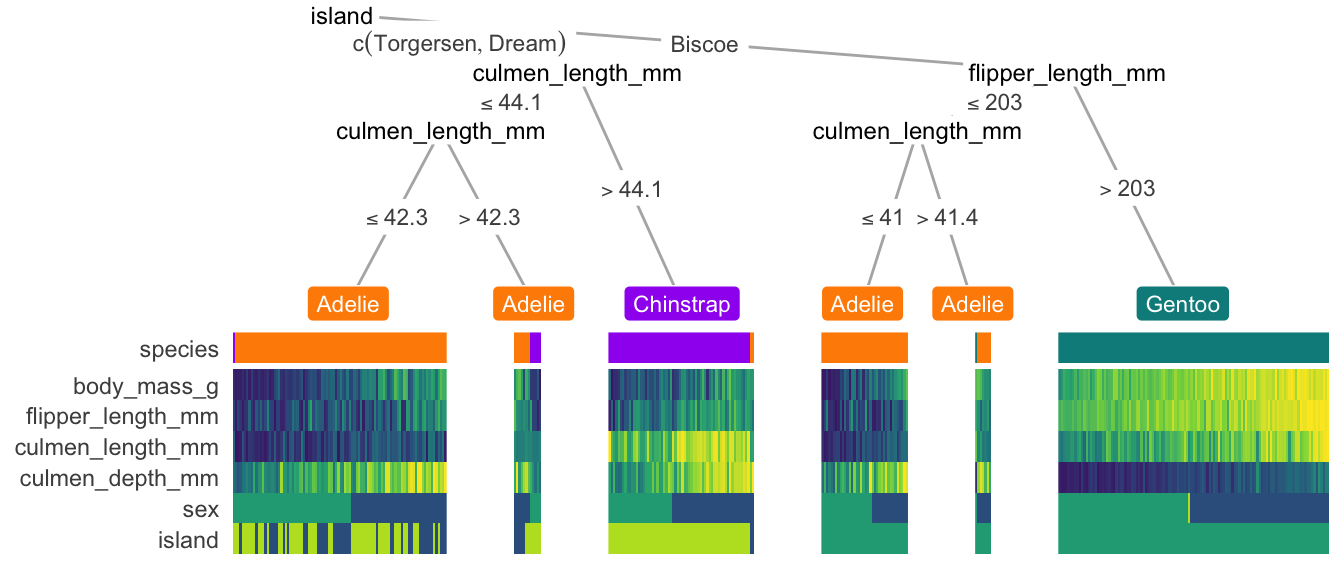
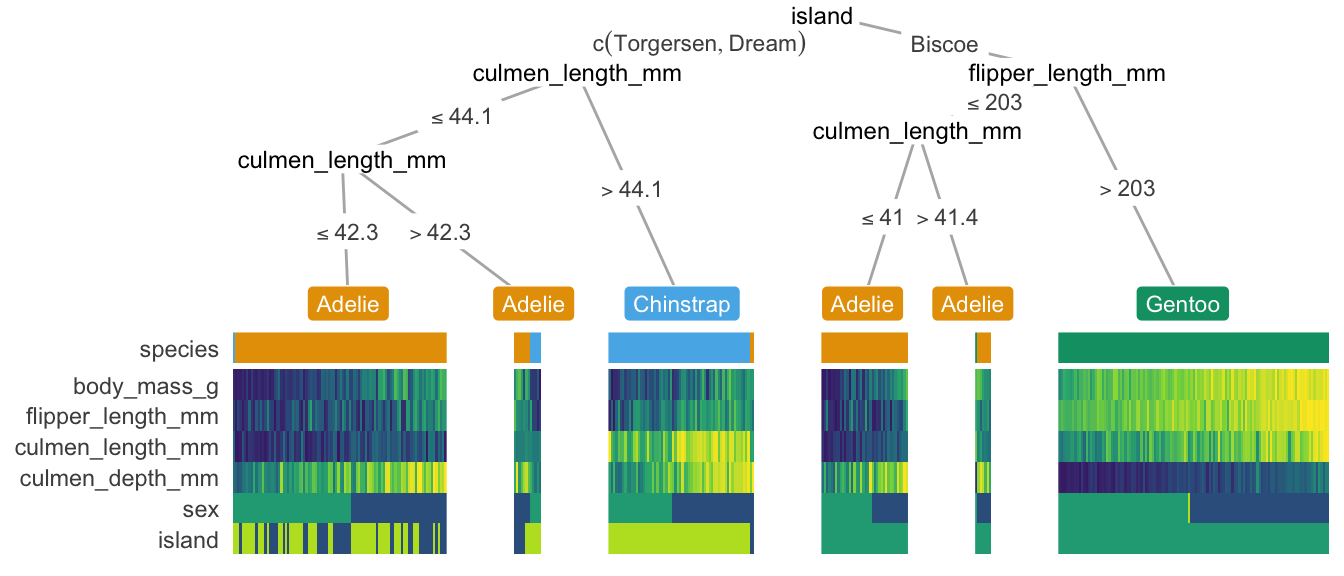
deploy: 11a17aaa21ae8ff6074057c14ddf8e1370b1aad9

diff --git a/articles/explore.html b/articles/explore.html
@@ -88,7 +88,7 @@
 </h1>
                         <h4 class="author">Trang Le</h4>
             
-            <h4 class="date">2020-06-18</h4>
+            <h4 class="date">2020-06-19</h4>
       
       <small class="dont-index">Source: <a href="https://github.com/trang1618/treeheatr/blob/master/vignettes/explore.Rmd"><code>vignettes/explore.Rmd</code></a></small>
       <div class="hidden name"><code>explore.Rmd</code></div>
@@ -112,9 +112,9 @@
 <p>But we can adjust a few graphical parameters. We can also add a custom layout for a subset of the nodes by specifying it in the <code>custom_layout</code> parameter. And we can relax the p value threshold <code>p_thres</code> to include more features that might be less important in classifying the samples but still included in the decision tree, or set <code>show_all_feats = TRUE</code> to include all features, even the ones that were not used to build the tree.</p>
 <div class="sourceCode" id="cb3"><html><body><pre class="r"><span class="fu"><a href="https://rdrr.io/pkg/treeheatr/man/heat_tree.html">heat_tree</a></span>(
   <span class="no">dat_raw</span>, <span class="kw">target_lab</span> <span class="kw">=</span> <span class="st">'species'</span>,
-  <span class="co"># target_cols = c('#E69F00', '#56B4E9', '#009E73'),</span>
-  <span class="kw">target_cols</span> <span class="kw">=</span> <span class="fu"><a href="https://rdrr.io/r/base/c.html">c</a></span>(<span class="st">'darkorange'</span>,<span class="st">'purple'</span>,<span class="st">'cyan4'</span>),
-  <span class="kw">custom_layout</span> <span class="kw">=</span> <span class="fu"><a href="https://rdrr.io/r/base/data.frame.html">data.frame</a></span>(<span class="kw">id</span> <span class="kw">=</span> <span class="fl">1</span>, <span class="kw">x</span> <span class="kw">=</span> <span class="fl">0.1</span>, <span class="kw">y</span> <span class="kw">=</span> <span class="fl">1</span>),
+  <span class="kw">target_cols</span> <span class="kw">=</span> <span class="fu"><a href="https://rdrr.io/r/base/c.html">c</a></span>(<span class="st">'#E69F00'</span>, <span class="st">'#56B4E9'</span>, <span class="st">'#009E73'</span>),
+  <span class="co"># moving node 3 a bit to the left:</span>
+  <span class="kw">custom_layout</span> <span class="kw">=</span> <span class="fu"><a href="https://rdrr.io/r/base/data.frame.html">data.frame</a></span>(<span class="kw">id</span> <span class="kw">=</span> <span class="fl">3</span>, <span class="kw">x</span> <span class="kw">=</span> <span class="fl">0.1</span>, <span class="kw">y</span> <span class="kw">=</span> <span class="fl">0.5</span>),
   <span class="kw">show_all_feats</span> <span class="kw">=</span> <span class="fl">TRUE</span>,
   <span class="kw">panel_space</span> <span class="kw">=</span> <span class="fl">0.05</span>, <span class="kw">target_space</span> <span class="kw">=</span> <span class="fl">0.2</span>, <span class="kw">tree_space_bottom</span> <span class="kw">=</span> <span class="fl">0.1</span>, <span class="kw">heat_rel_height</span> <span class="kw">=</span> <span class="fl">0.4</span>)</pre></body></html></div>
 <p><img src="explore_files/figure-html/unnamed-chunk-3-1.png" width="672"></p>

diff --git a/reference/eval_tree.html b/reference/eval_tree.html
@@ -134,15 +134,24 @@
     <p>Print decision tree performance according to different metrics.</p>
     </div>
 
-    <pre class="usage"><span class='fu'>eval_tree</span>(<span class='no'>dat</span>, <span class='kw'>task</span> <span class='kw'>=</span> <span class='fu'><a href='https://rdrr.io/r/base/c.html'>c</a></span>(<span class='st'>"classification"</span>, <span class='st'>"regression"</span>), <span class='kw'>metrics</span> <span class='kw'>=</span> <span class='kw'>NULL</span>)</pre>
+    <pre class="usage"><span class='fu'>eval_tree</span>(
+  <span class='no'>dat</span>,
+  <span class='kw'>target_lab</span> <span class='kw'>=</span> <span class='fu'><a href='https://rdrr.io/r/base/colnames.html'>colnames</a></span>(<span class='no'>dat</span>)[<span class='fl'>1</span>],
+  <span class='kw'>task</span> <span class='kw'>=</span> <span class='fu'><a href='https://rdrr.io/r/base/c.html'>c</a></span>(<span class='st'>"classification"</span>, <span class='st'>"regression"</span>),
+  <span class='kw'>metrics</span> <span class='kw'>=</span> <span class='kw'>NULL</span>
+)</pre>
 
     <h2 class="hasAnchor" id="arguments"><a class="anchor" href="#arguments"></a>Arguments</h2>
     <table class="ref-arguments">
     <colgroup><col class="name" /><col class="desc" /></colgroup>
     <tr>
       <th>dat</th>
-      <td><p>Dataframe with truths (column `my_target`) and estimates (column `y_hat`)
+      <td><p>Dataframe with truths (column `target_lab`) and estimates (column `y_hat`)
 of samples from original dataset.</p></td>
+    </tr>
+    <tr>
+      <th>target_lab</th>
+      <td><p>Name of the column in data that contains target/label information.</p></td>
     </tr>
     <tr>
       <th>task</th>

diff --git a/reference/prediction_df.html b/reference/prediction_df.html
@@ -136,14 +136,14 @@ or all features if `show_all_feats == TRUE`." />
 or all features if `show_all_feats == TRUE`.</p>
     </div>
 
-    <pre class="usage"><span class='fu'>prediction_df</span>(<span class='no'>dat</span>, <span class='no'>fit</span>, <span class='no'>data_test</span>, <span class='no'>task</span>, <span class='no'>clust_samps</span>, <span class='no'>clust_target</span>)</pre>
+    <pre class="usage"><span class='fu'>prediction_df</span>(<span class='no'>dat</span>, <span class='no'>fit</span>, <span class='no'>data_test</span>, <span class='no'>target_lab</span>, <span class='no'>task</span>, <span class='no'>clust_samps</span>, <span class='no'>clust_target</span>)</pre>
 
     <h2 class="hasAnchor" id="arguments"><a class="anchor" href="#arguments"></a>Arguments</h2>
     <table class="ref-arguments">
     <colgroup><col class="name" /><col class="desc" /></colgroup>
     <tr>
       <th>dat</th>
-      <td><p>Tidy dataset with dependent variable labeled 'my_target'.</p></td>
+      <td><p>Tidy dataset.</p></td>
     </tr>
     <tr>
       <th>fit</th>
@@ -152,6 +152,10 @@ or all features if `show_all_feats == TRUE`.</p>
     <tr>
       <th>data_test</th>
       <td><p>Tidy test dataset. If NULL, heatmap displays (training) `data`.</p></td>
+    </tr>
+    <tr>
+      <th>target_lab</th>
+      <td><p>Name of the column in data that contains target/label information.</p></td>
     </tr>
     <tr>
       <th>task</th>

diff --git a/reference/index.html b/reference/index.html
@@ -269,6 +269,29 @@
           <p><code><a href="wine_quality_red.html">wine_quality_red</a></code> </p>
         </td>
         <td><p>Red variant of the Portuguese "Vinho Verde" wine.</p></td>
+      </tr><tr>
+        
+        <td>
+          <p><code><a href="galaxy.html">galaxy</a></code> </p>
+        </td>
+        <td><p>Galaxy dataset for regression.</p></td>
+      </tr><tr>
+        
+        <td>
+          <p><code><a href="train_covid.html">train_covid</a></code> </p>
+        </td>
+        <td><p>Training dataset.
+Medical information of Wuhan patients collected between
+2020-01-10 and 2020-02-18.
+Containing NAs.</p></td>
+      </tr><tr>
+        
+        <td>
+          <p><code><a href="test_covid.html">test_covid</a></code> </p>
+        </td>
+        <td><p>External test dataset.
+Medical information of Wuhan patients collected between
+2020-01-10 and 2020-02-18.</p></td>
       </tr>
     </tbody>
     </table>

diff --git a/news/index.html b/news/index.html
@@ -132,6 +132,12 @@
 <h1 class="page-header" data-toc-text="development version">
 <a href="#treeheatr-development-version" class="anchor"></a>treeheatr (development version)<small> Unreleased </small>
 </h1>
+<ul>
+<li>include the diabetes dataset</li>
+<li>reduce legend margin</li>
+<li>remove <code>my_target</code> as column names within functions</li>
+<li>allow wrapping as.party() around rpart object for custom_tree</li>
+</ul>
 </div>
     <div id="treeheatr-010-2020-06-17" class="section level1">
 <h1 class="page-header" data-toc-text="0.1.0">

diff --git a/reference/compute_tree.html b/reference/compute_tree.html
@@ -224,7 +224,7 @@ fit, estimates, smart layout and terminal data.</p>
 #&gt; <span class='message'>  method         from </span>
 #&gt; <span class='message'>  reorder.hclust gclus</span></div><div class='input'><span class='no'>x</span>$<span class='no'>fit</span></div><div class='output co'>#&gt; 
 #&gt; Model formula:
-#&gt; my_target ~ island + culmen_length_mm + culmen_depth_mm + flipper_length_mm + 
+#&gt; species ~ island + culmen_length_mm + culmen_depth_mm + flipper_length_mm + 
 #&gt;     body_mass_g + sex
 #&gt; 
 #&gt; Fitted party:
